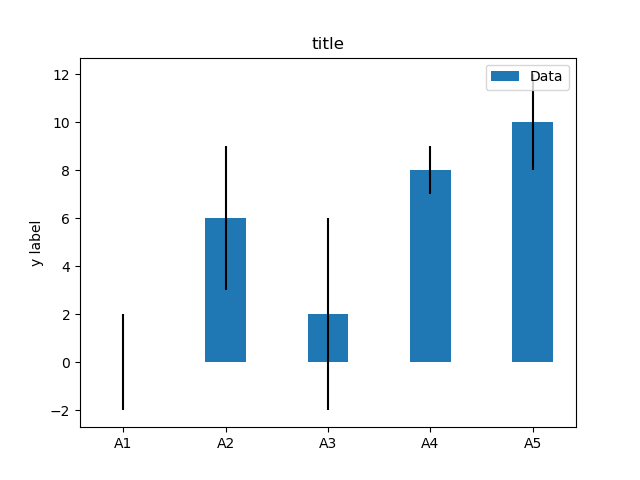
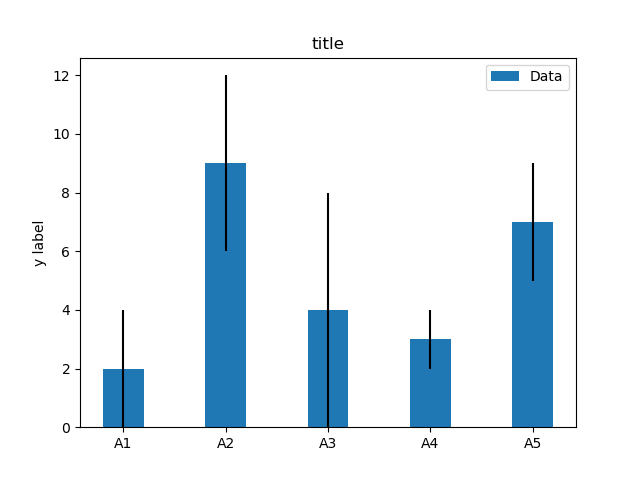
first commit

diff --git a/example.py b/example.py
@@ -2,7 +2,7 @@ import numpy as np
 import matplotlib.pyplot as plt
 
 labels = ['A1', 'A2', 'A3', 'A4', 'A5']
-m_means = [0,6,2,8,10]
+m_means = [2,9,4,3,7]
 m_std = [2, 3, 4, 1, 2]
 width = 0.40       # the width of the bars
 

diff --git a/README.md b/README.md
@@ -1,4 +1,4 @@
-# Matplotlib no 23 
+# Matplotlib no 24 
 
 python example
 
